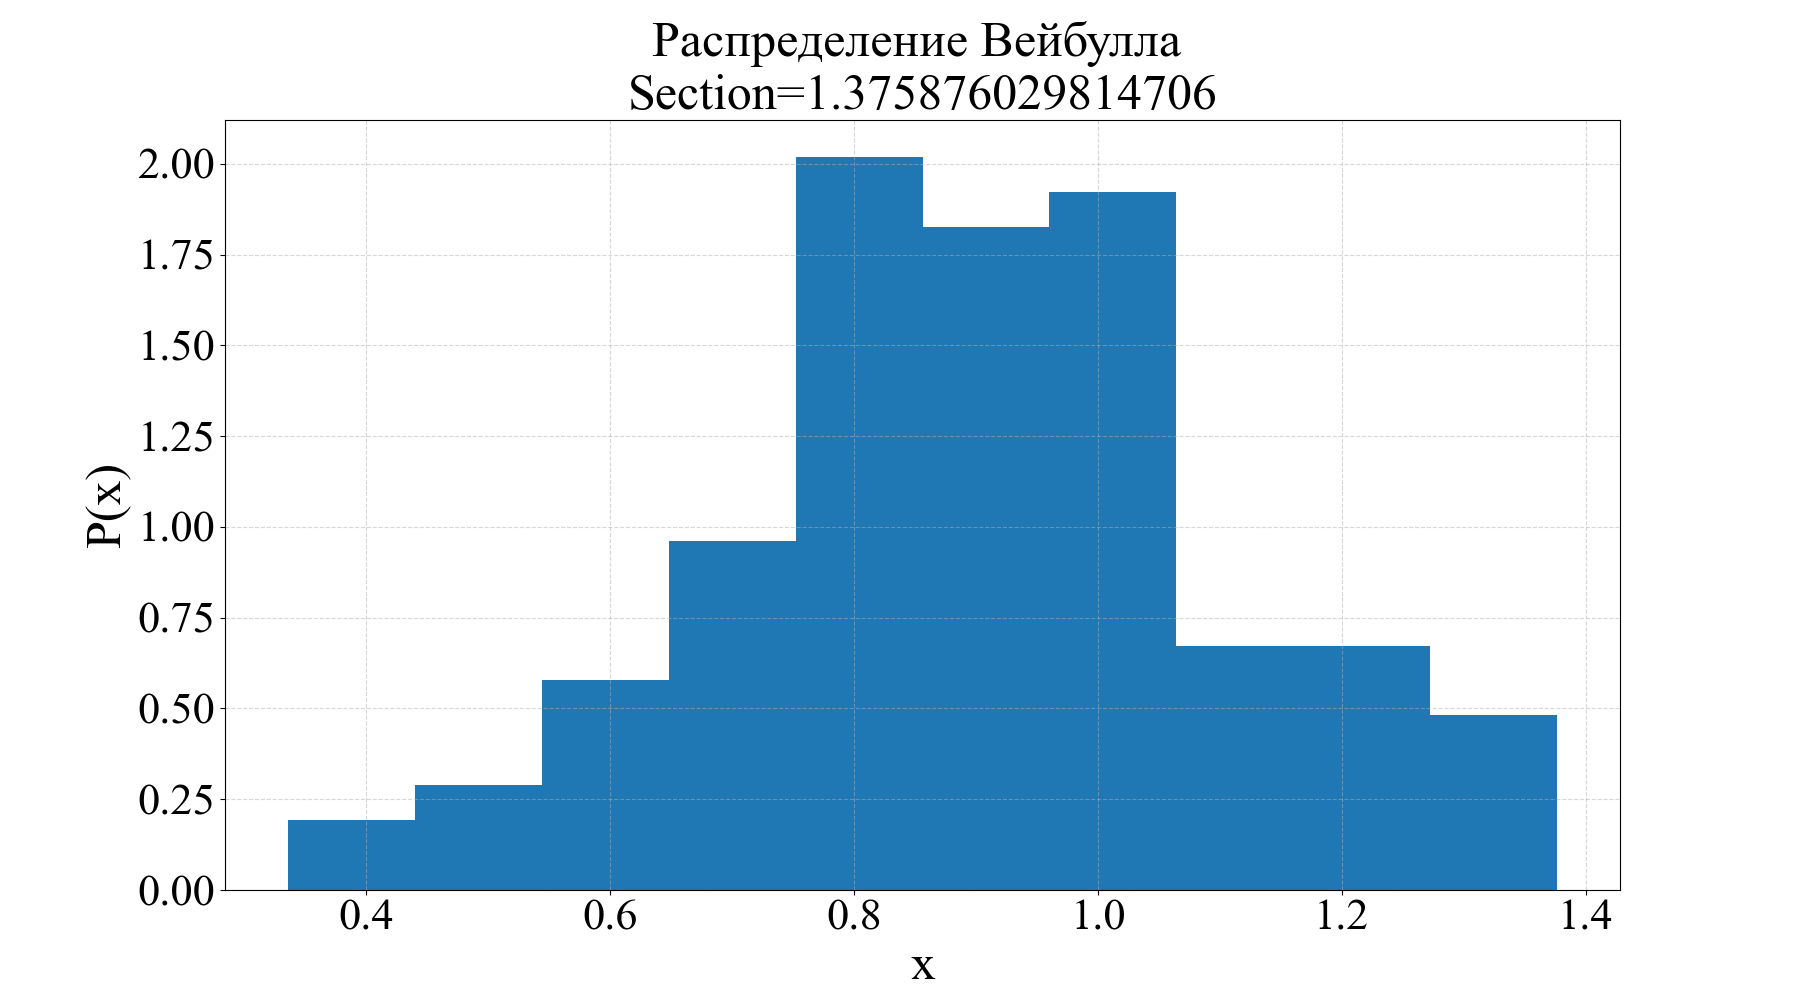
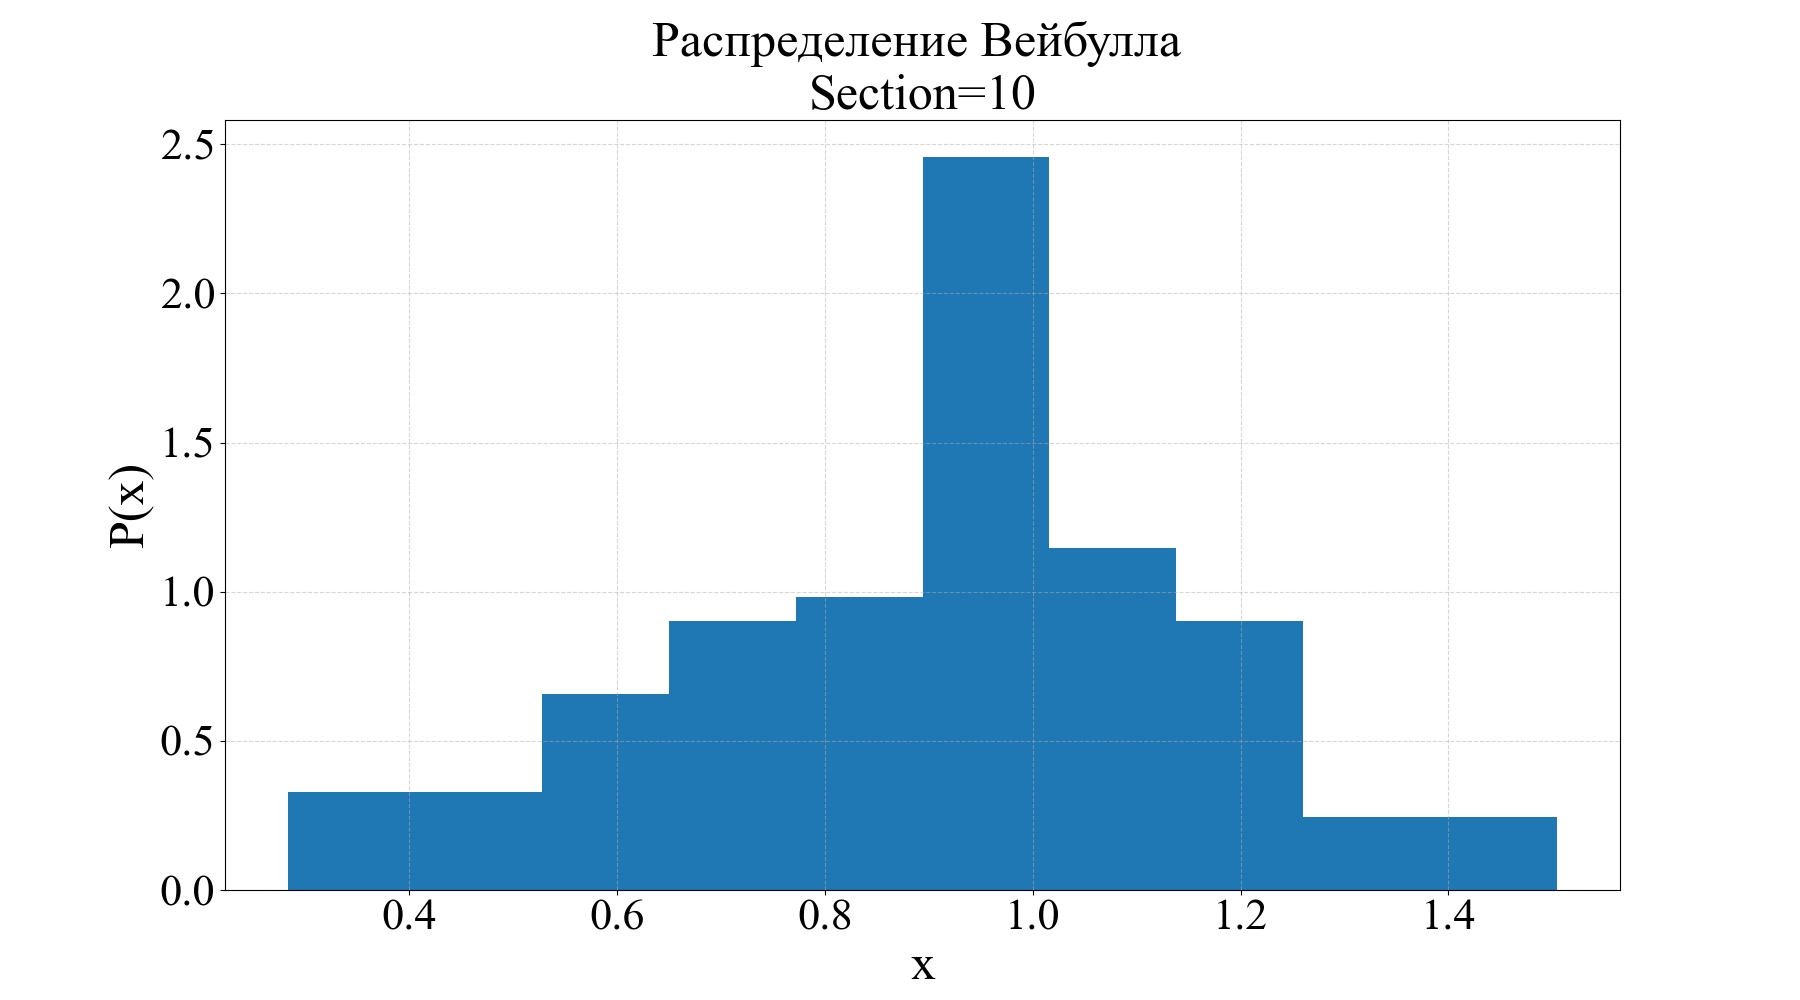
较优结果

diff --git a/004 - lab3/main.py b/004 - lab3/main.py
@@ -382,7 +382,7 @@ def plot_hist(arr: np.ndarray, save_path: str):
     plt.hist(x=arr, bins=10, density=True)
     plt.grid(linestyle='--', alpha=0.5)
     plt.title('Распределение Вейбулла \n'
-              'Section=' + arr.max().__str__(),
+              'Section=10',
               fontdict={'family': FONT, 'size': TITLE_FONT_SIZE})
     plt.xlabel('x', fontdict={'family': FONT, 'size': LABEL_FONT_SIZE})
     plt.ylabel('P(x)', fontdict={'family': FONT, 'size': LABEL_FONT_SIZE})
@@ -412,43 +412,43 @@ if __name__ == '__main__':
     # student_t_distribution(irandom.irnstud(n=10, size=10000), './result/【2.5】Распределение Стьюдента/')
 
     # 【2.6】lab3+ Распределение Вейбулла
-    # arr_weibull = irandom.irnweibull(k=5, l=1, size=100)  # 获取随机数组
-    # arr_weibull_exp_cdf = irandom.weibull_exp_cdf(k=5, l=1, arr_exp=arr_weibull)  # 根据随机数组计算累积概率密度
-    # arr_obs = np.linspace(start=0.01, stop=1, num=100)
-    # df_weibull = pd.concat([pd.Series(np.sort(arr_weibull)),
-    #                         pd.Series(arr_obs),
-    #                         pd.Series(arr_weibull_exp_cdf),
-    #                         pd.Series(abs(arr_obs - arr_weibull_exp_cdf))], axis=1)
-    # df_weibull.index = np.linspace(start=1, stop=100, num=100, dtype=np.int64)
-    # df_weibull.columns = ['random_weibull', 'F(obs)', 'F(exp)', '|F(obs)-F(exp)|']
-    # df_weibull.to_csv(path_or_buf='./result/【2.6】Распределение Вейбулла/K-S test for Weibull.csv')
-    # print(df_weibull, '\n',
-    #       '-*-' * 20, '\n',
-    #       'D_n MAX = ', df_weibull['|F(obs)-F(exp)|'].max(), '\n',
-    #       'Alpha = 0.1, 临界值 = ', 1.22 / math.sqrt(100))
-    # weibull_distribution(arr_weibull, './result/【2.6】Распределение Вейбулла/')
-    # plot_weibull_hist(arr_weibull=arr_weibull,
-    #                   save_path='./result/【2.6】Распределение Вейбулла/hist_weibull.png')
+    arr_weibull = irandom.irnweibull(k=4, l=1, size=100)  # 获取随机数组
+    arr_weibull_exp_cdf = irandom.weibull_exp_cdf(k=4, l=1, arr_exp=arr_weibull)  # 根据随机数组计算累积概率密度
+    arr_obs = np.linspace(start=0.01, stop=1, num=100)
+    df_weibull = pd.concat([pd.Series(np.sort(arr_weibull)),
+                            pd.Series(arr_obs),
+                            pd.Series(arr_weibull_exp_cdf),
+                            pd.Series(abs(arr_obs - arr_weibull_exp_cdf))], axis=1)
+    df_weibull.index = np.linspace(start=1, stop=100, num=100, dtype=np.int64)
+    df_weibull.columns = ['random_weibull', 'F(obs)', 'F(exp)', '|F(obs)-F(exp)|']
+    df_weibull.to_csv(path_or_buf='./result/【2.6】Распределение Вейбулла/K-S test for Weibull.csv')
+    print(df_weibull, '\n',
+          '-*-' * 20, '\n',
+          'D_n MAX = ', df_weibull['|F(obs)-F(exp)|'].max(), '\n',
+          'Alpha = 0.1, 临界值 = ', 1.22 / math.sqrt(100))
+    weibull_distribution(arr_weibull, './result/【2.6】Распределение Вейбулла/')
+    plot_hist(arr=arr_weibull,
+              save_path='./result/【2.6】Распределение Вейбулла/hist_weibull.png')
 
 
     # 【2.6】lab3+ Распределение Рэлея
-    arr_rayleigh = irandom.irnrayleigh(mu=1.0, size=100)
-    arr_rayleigh_exp_cdf = irandom.rayleigh_exp_cdf(mu=1.0, arr_exp=arr_rayleigh)  # 根据随机数组计算累积概率密度
-    arr_obs = np.linspace(start=0.01, stop=1, num=100)
-    df_rayleigh = pd.concat([pd.Series(np.sort(arr_rayleigh)),
-                             pd.Series(arr_obs),
-                             pd.Series(arr_rayleigh_exp_cdf),
-                             pd.Series(abs(arr_obs - arr_rayleigh_exp_cdf))], axis=1)
-    df_rayleigh.index = np.linspace(start=1, stop=100, num=100, dtype=np.int64)
-    df_rayleigh.columns = ['random_rayleigh', 'F(obs)', 'F(exp)', '|F(obs)-F(exp)|']
-    df_rayleigh.to_csv(path_or_buf='./result/【2.6】Распределения Релея/K-S test for Rayleigh.csv')
-    print(df_rayleigh, '\n',
-          '-*-' * 20, '\n',
-          'D_n MAX = ', df_rayleigh['|F(obs)-F(exp)|'].max(), '\n',
-          'Alpha = 0.05, 临界值 = ', 1.36 / math.sqrt(100))
-    weibull_distribution(arr_rayleigh, './result/【2.6】Распределения Релея/')
-    plot_hist(arr=arr_rayleigh,
-              save_path='./result/【2.6】Распределения Релея/hist_weibull.png')
+    # arr_rayleigh = irandom.irnrayleigh(mu=1.0, size=100)
+    # arr_rayleigh_exp_cdf = irandom.rayleigh_exp_cdf(mu=1.0, arr_exp=arr_rayleigh)  # 根据随机数组计算累积概率密度
+    # arr_obs = np.linspace(start=0.01, stop=1, num=100)
+    # df_rayleigh = pd.concat([pd.Series(np.sort(arr_rayleigh)),
+    #                          pd.Series(arr_obs),
+    #                          pd.Series(arr_rayleigh_exp_cdf),
+    #                          pd.Series(abs(arr_obs - arr_rayleigh_exp_cdf))], axis=1)
+    # df_rayleigh.index = np.linspace(start=1, stop=100, num=100, dtype=np.int64)
+    # df_rayleigh.columns = ['random_rayleigh', 'F(obs)', 'F(exp)', '|F(obs)-F(exp)|']
+    # df_rayleigh.to_csv(path_or_buf='./result/【2.6】Распределения Релея/K-S test for Rayleigh.csv')
+    # print(df_rayleigh, '\n',
+    #       '-*-' * 20, '\n',
+    #       'D_n MAX = ', df_rayleigh['|F(obs)-F(exp)|'].max(), '\n',
+    #       'Alpha = 0.05, 临界值 = ', 1.36 / math.sqrt(100))
+    # weibull_distribution(arr_rayleigh, './result/【2.6】Распределения Релея/')
+    # plot_hist(arr=arr_rayleigh,
+    #           save_path='./result/【2.6】Распределения Релея/hist_weibull.png')
 
 
 
